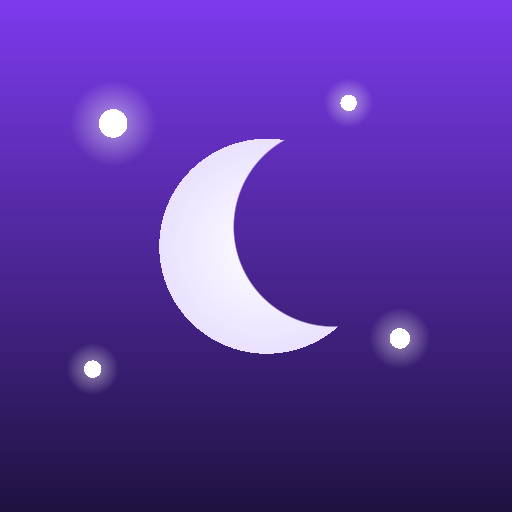
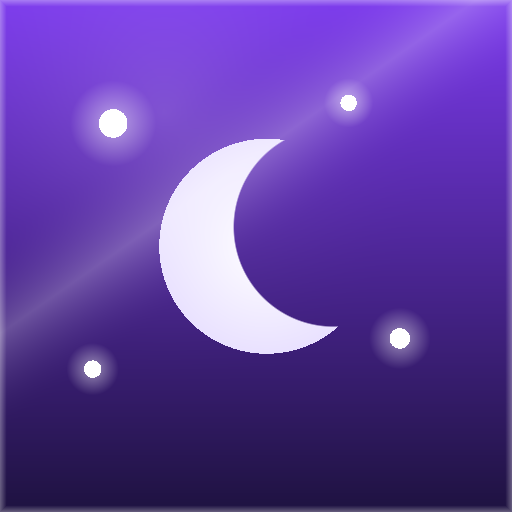
Rework del icono con acabado de vidrio real (destello diagonal, brillo ambiental, borde biselado)
Mismo concepto de luna creciente, pero ahora con reflejos que lo hacen
sentir coherente con las tarjetas glassmorphism del resto de la app.

Changed region(s): [[0.0, 0.0, 1.0, 1.0]]

diff --git a/scripts/generate-icons.js b/scripts/generate-icons.js
@@ -65,6 +65,10 @@ function mix(a, b, t) {
   return a + (b - a) * t;
 }
 
+function lighten(component, amount) {
+  return component + (255 - component) * amount;
+}
+
 function hexToRgb(hex) {
   const n = parseInt(hex.replace('#', ''), 16);
   return [(n >> 16) & 255, (n >> 8) & 255, n & 255];
@@ -97,6 +101,24 @@ function drawIcon({ size, moonScale = 0.62, stars = true, cornerRadius = 0.22 })
   ];
 
   const radius = size * cornerRadius;
+
+  // Glass surface FX: a diagonal specular streak (like light grazing a
+  // glass panel) and a soft ambient sheen from the upper-left, matching
+  // the app's glassmorphism cards.
+  const streakAngle = (-35 * Math.PI) / 180;
+  const streakDirX = Math.cos(streakAngle);
+  const streakDirY = Math.sin(streakAngle);
+  const streakNormalX = -streakDirY;
+  const streakNormalY = streakDirX;
+  const streakCx = size * 0.5;
+  const streakCy = size * 0.3;
+  const streakWidth = size * 0.16;
+
+  const sheenCx = size * 0.32;
+  const sheenCy = size * 0.22;
+  const sheenR = size * 0.55;
+
+  const rimWidth = Math.max(1.5, size * 0.012);
 
   for (let y = 0; y < size; y++) {
     const t = y / size;
@@ -150,6 +172,41 @@ function drawIcon({ size, moonScale = 0.62, stars = true, cornerRadius = 0.22 })
             g_ = mix(g_, 255, intensity);
             b_ = mix(b_, 255, intensity);
           }
+        }
+      }
+
+      if (alpha > 0.01) {
+        // Diagonal specular streak
+        const perpDist = (x - streakCx) * streakNormalX + (y - streakCy) * streakNormalY;
+        if (Math.abs(perpDist) < streakWidth) {
+          const streakT = 1 - Math.abs(perpDist) / streakWidth;
+          const streakAmount = streakT * streakT * 0.22;
+          r_ = lighten(r_, streakAmount);
+          g_ = lighten(g_, streakAmount);
+          b_ = lighten(b_, streakAmount);
+        }
+
+        // Ambient sheen (soft light from the upper-left)
+        const sheenDist = Math.hypot(x - sheenCx, y - sheenCy);
+        if (sheenDist < sheenR) {
+          const sheenT = 1 - sheenDist / sheenR;
+          const sheenAmount = sheenT * sheenT * 0.16;
+          r_ = lighten(r_, sheenAmount);
+          g_ = lighten(g_, sheenAmount);
+          b_ = lighten(b_, sheenAmount);
+        }
+
+        // Beveled glass rim along the rounded-square edge
+        let insetFromEdge = Math.min(x, size - 1 - x, y, size - 1 - y);
+        if (dx > 0 && dy > 0) {
+          const cornerDist = Math.sqrt(dx * dx + dy * dy);
+          insetFromEdge = radius - cornerDist;
+        }
+        if (insetFromEdge >= 0 && insetFromEdge < rimWidth) {
+          const rimAmount = (1 - insetFromEdge / rimWidth) * 0.3;
+          r_ = lighten(r_, rimAmount);
+          g_ = lighten(g_, rimAmount);
+          b_ = lighten(b_, rimAmount);
         }
       }
 
